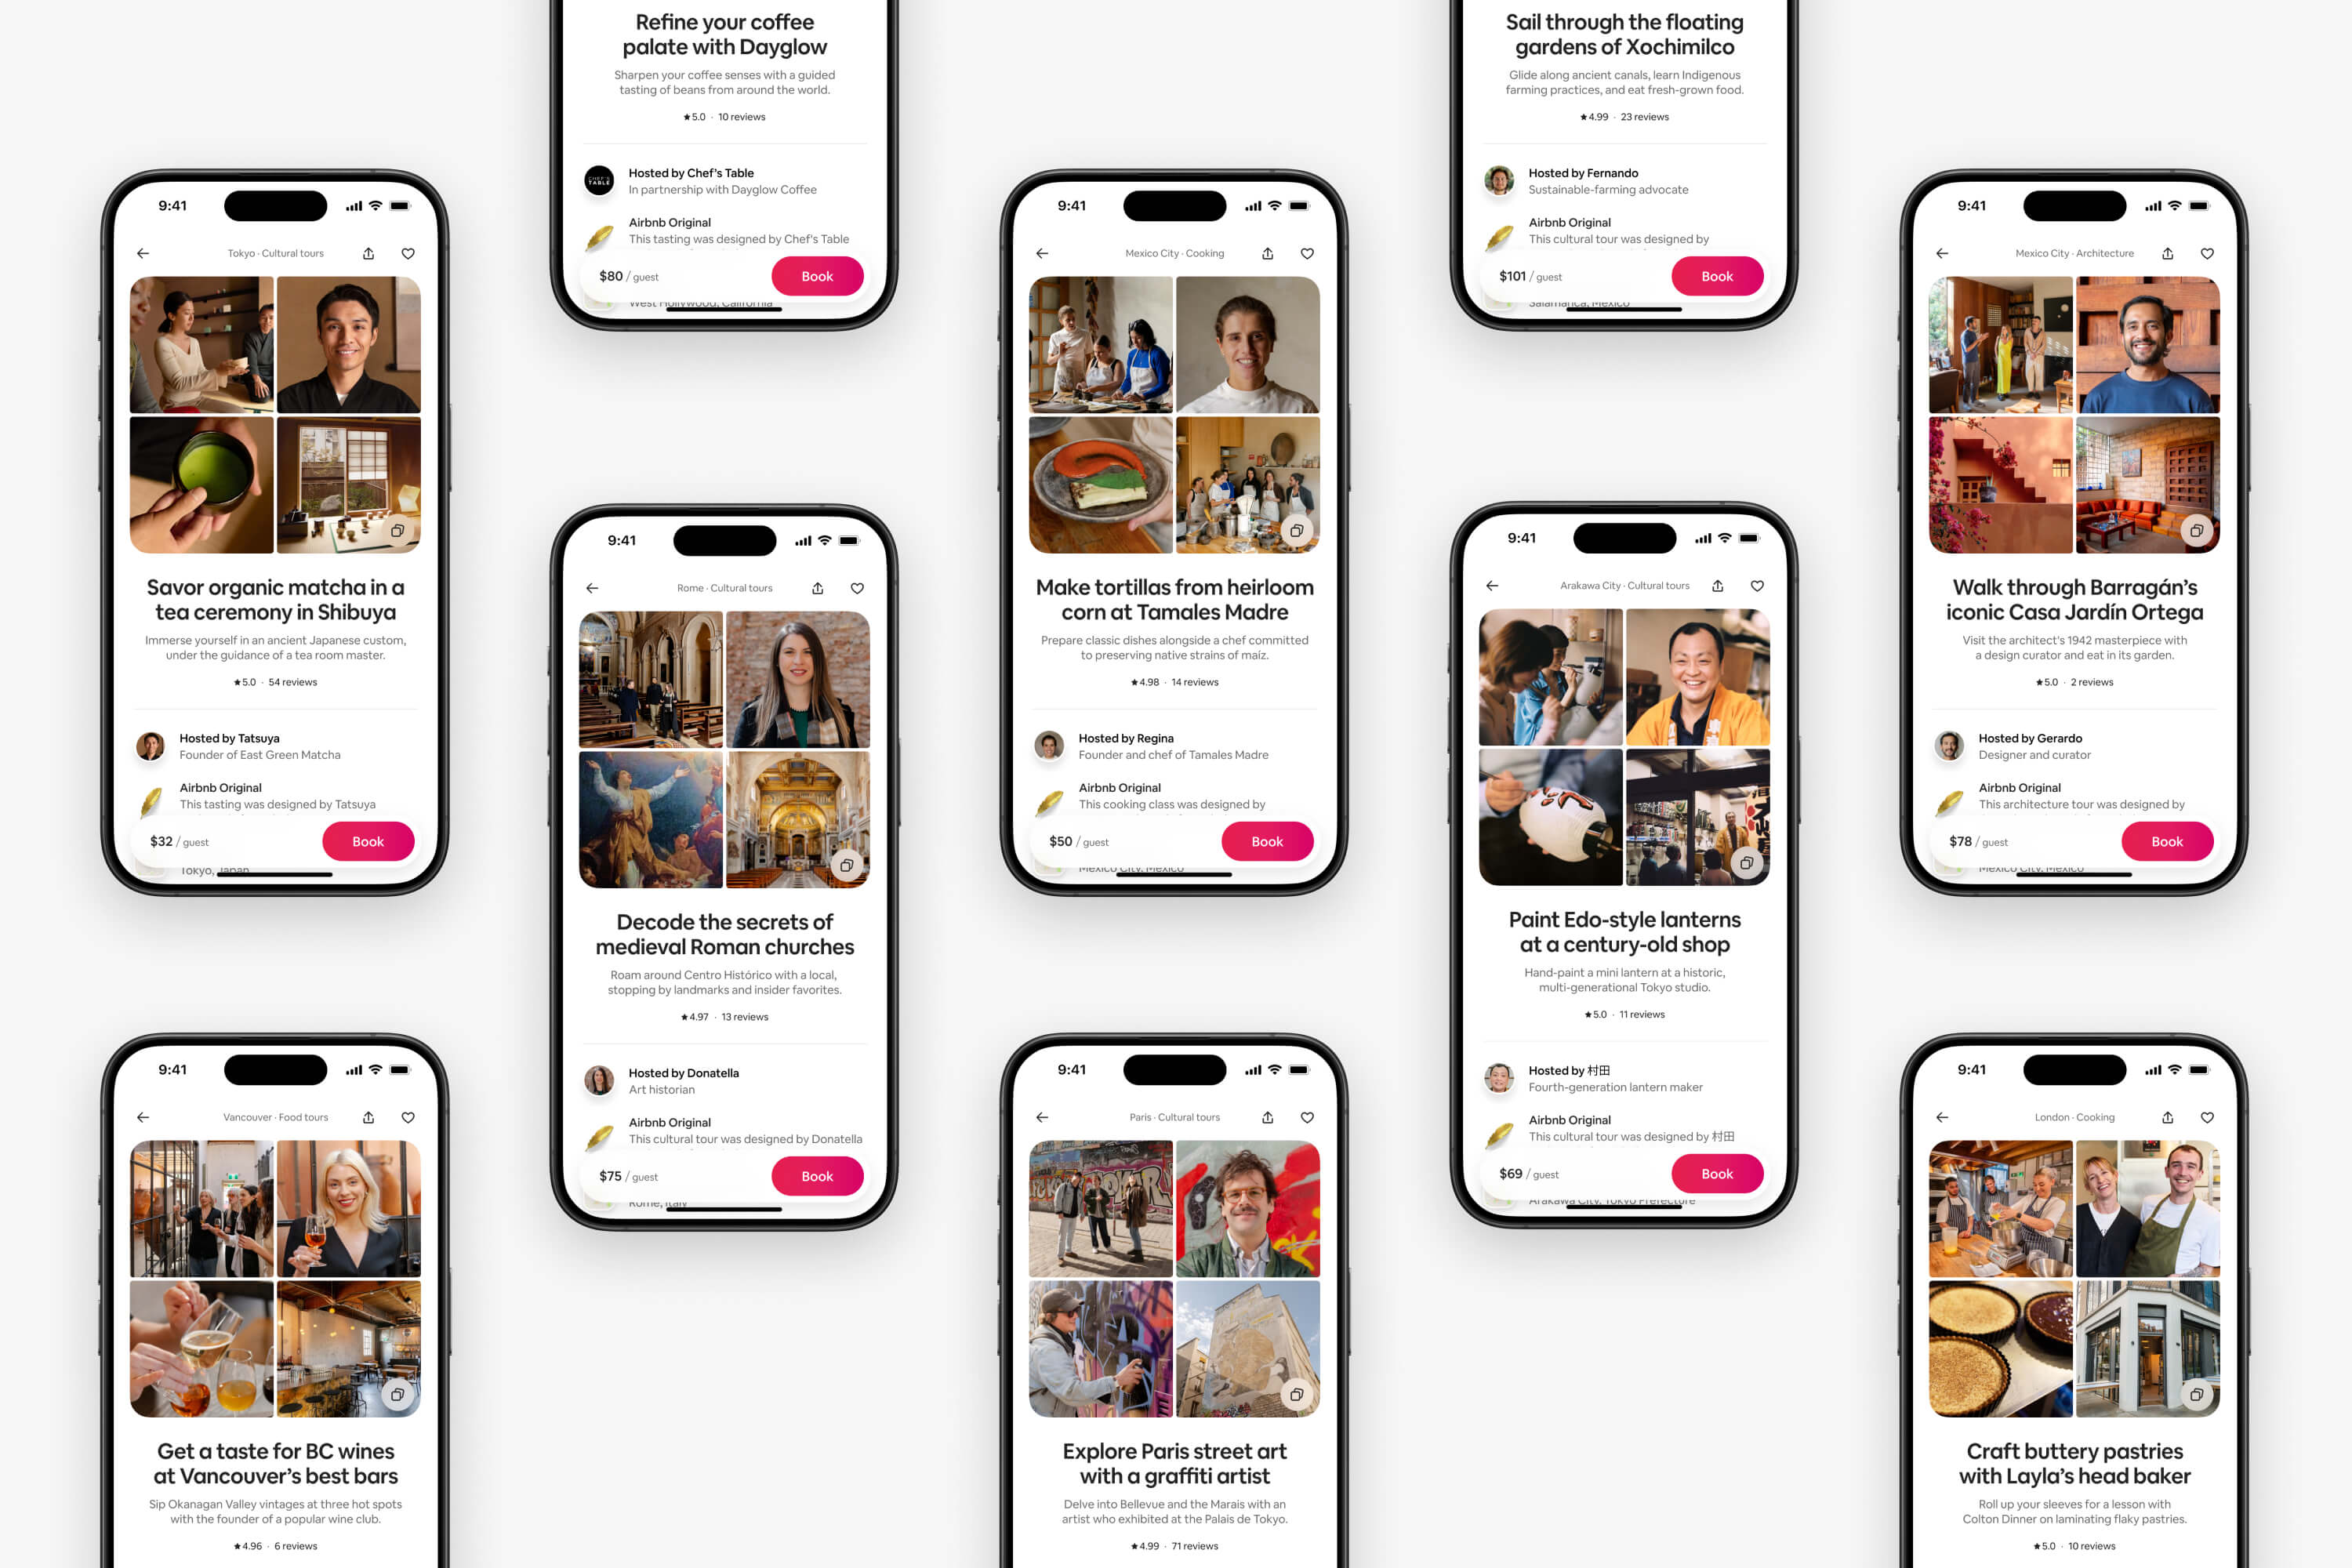
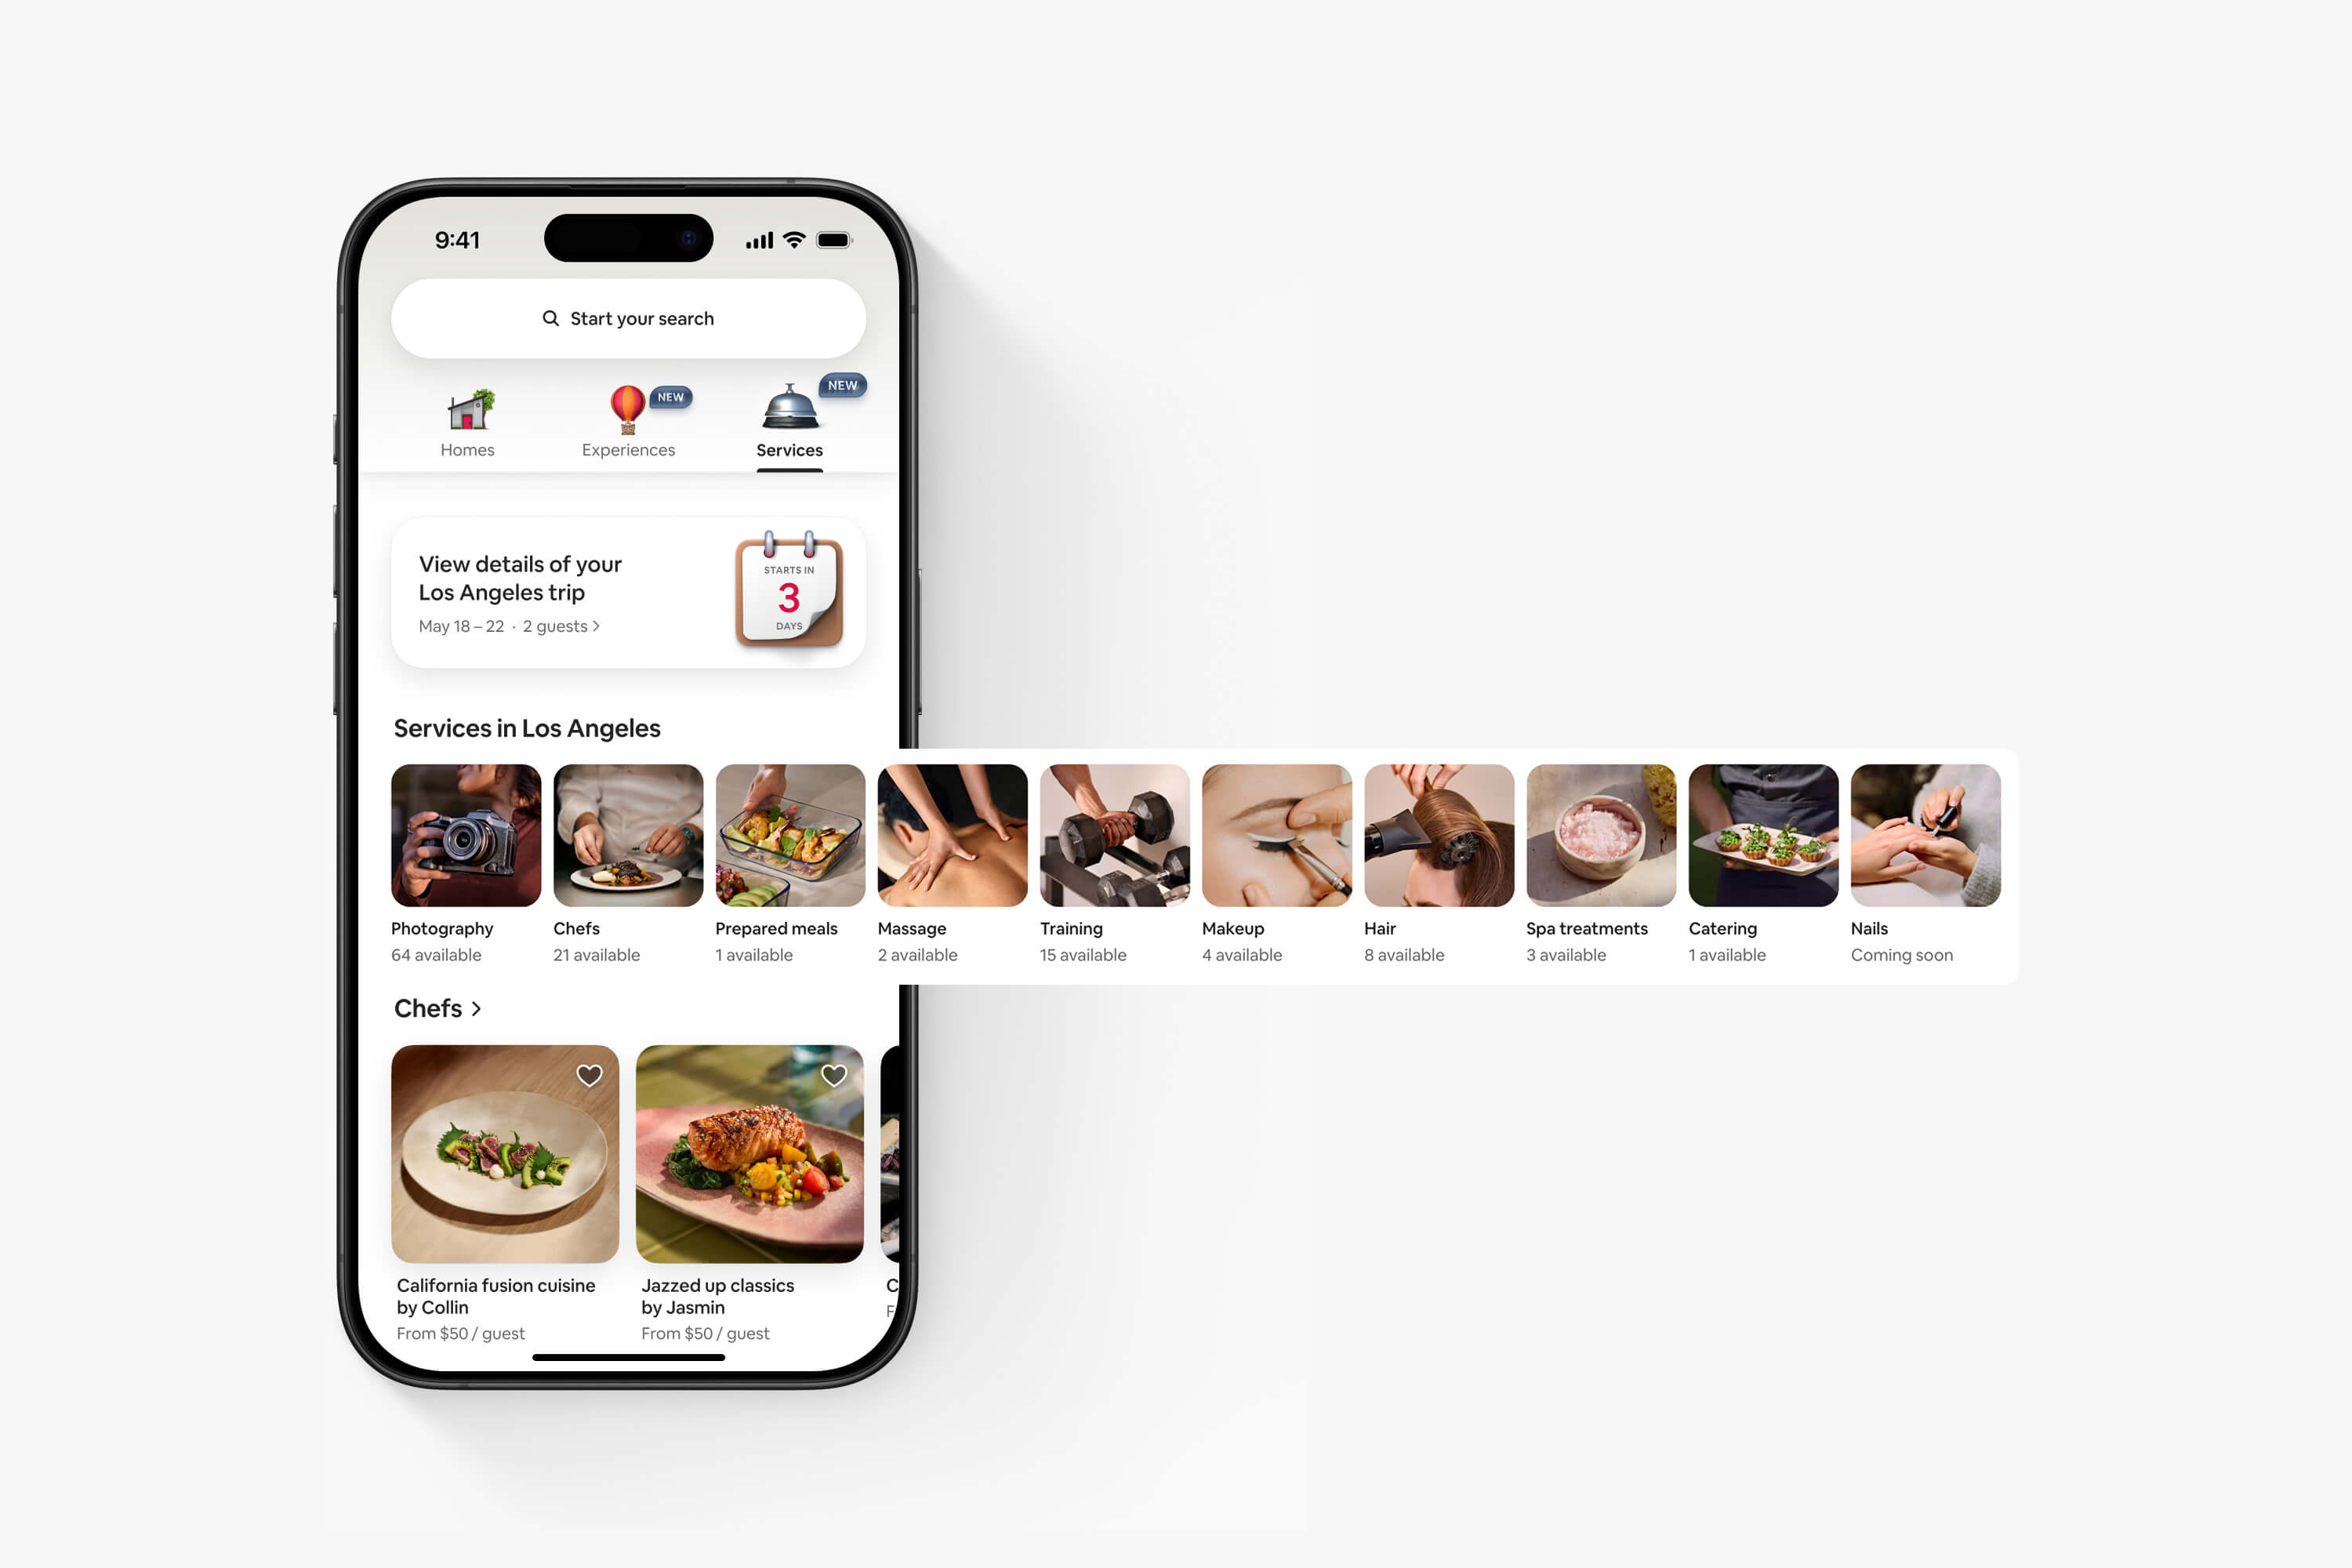
6/13 Update

diff --git a/assets/db.js b/assets/db.js
@@ -4,7 +4,7 @@ projectDB = [
 		id:'Fir Wood',
 		description:'A design-focused retreat experience at an original Sea Ranch Cluster House',
 		images:[
-			'1_FirWood.jpg',
+			'1_FirWood.png',
 			'2_FirWood.gif',
 			'3_FirWood.jpg',
 			'4_FirWood.jpg',
@@ -97,20 +97,6 @@ projectDB = [
 		customID:'',
 	},
 	{
-		title:'Dept.',
-		id:'Dept',
-		description:'Brand strategy and design for a landscape architecture and urban design studio',
-		images:[
-			'Logo.gif',
-			'About Page.png',
-			'Project Page.gif',
-			'Card 1.jpg',
-			'Card 2.jpg'
-		],
-		customClass:'',
-		customID:'',
-	},
-	{
 		title:'Figma',
 		id:'Figma',
 		description:'Brand design for the public release of the collaborative design tool',
@@ -124,16 +110,15 @@ projectDB = [
 		customID:'',
 	},
 	{
-		title:'IDEO',
-		id:'IDEO',
-		description:'Art direction for the design and consulting firm',
+		title:'Dept.',
+		id:'Dept',
+		description:'Brand strategy and design for a landscape architecture and urban design studio',
 		images:[
-			'IDEO-2.jpg',
-			'IDEO-7.jpg',
-			'IDEO-3.jpg',
-			'IDEO-4.jpg',
-			'IDEO-5.jpg',
-			'IDEO-6.jpg',
+			'Logo.gif',
+			'About Page.png',
+			'Project Page.gif',
+			'Card 1.jpg',
+			'Card 2.jpg'
 		],
 		customClass:'',
 		customID:'',